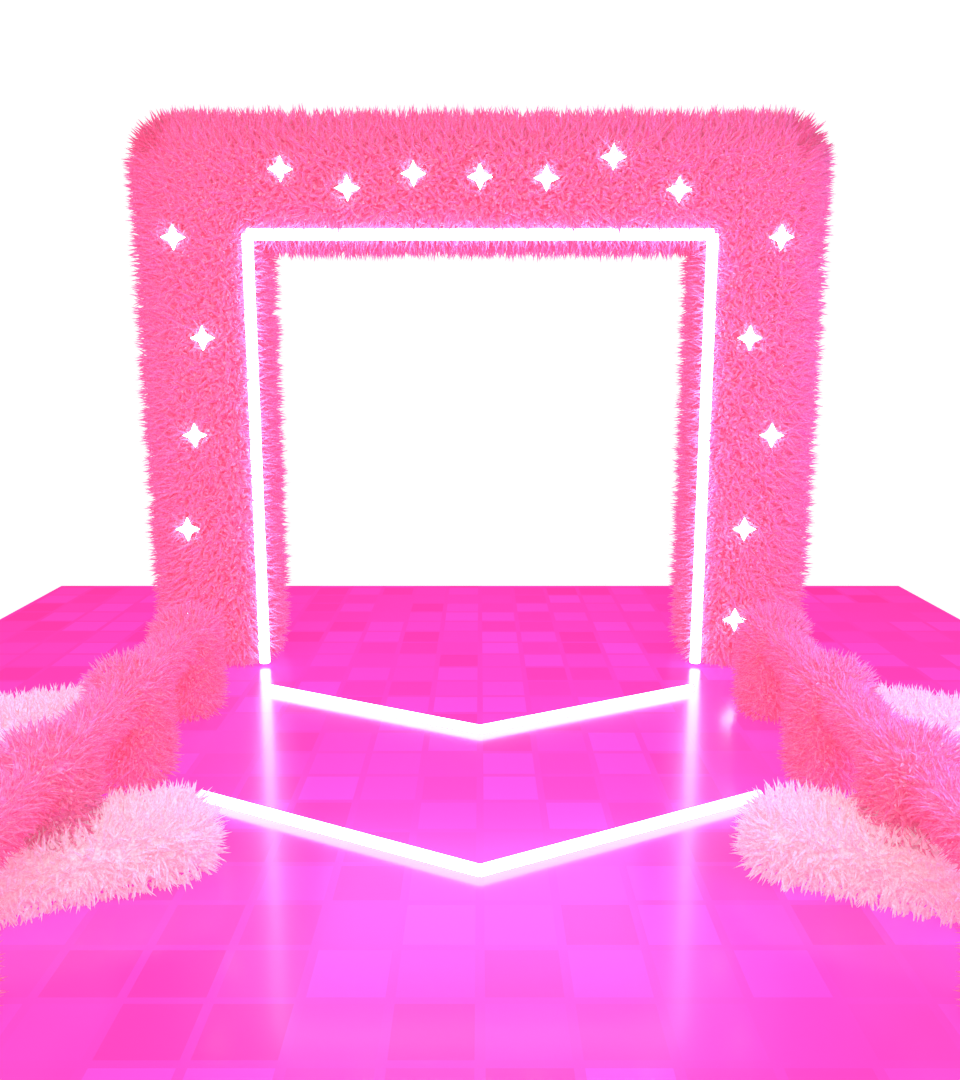
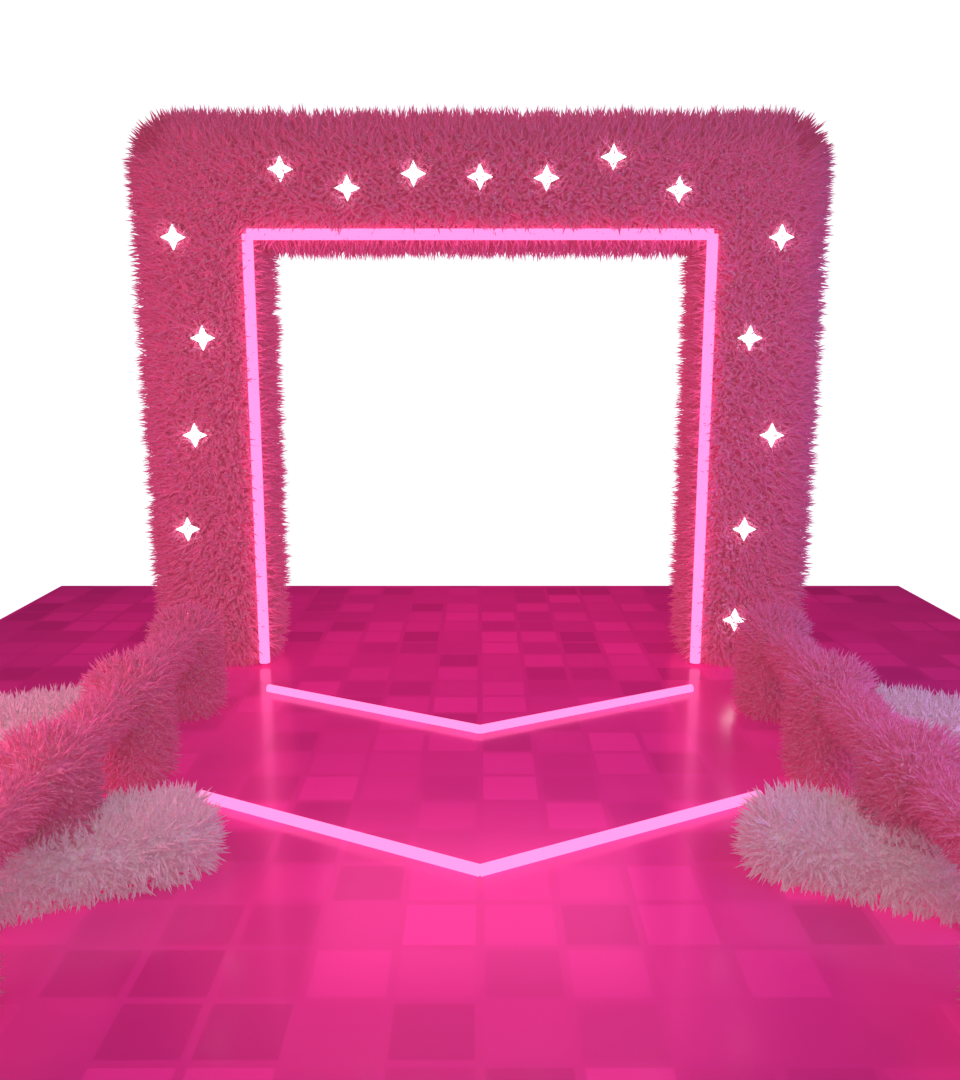
HUMAN TETRIS 8: kapak doygunlugu referansa esitlendi (pozlama -1,4, kapak gogu), onayli A/B

diff --git a/05-kapak/kapak-pvp-08.py b/05-kapak/kapak-pvp-08.py
@@ -37,7 +37,7 @@ FONT = os.path.join(KOK, "05-kapak", "fontlar", "TitanOne.ttf")
 yfont = lambda boy: ImageFont.truetype(FONT, boy)
 
 # ---------------------------------------------------------------- arka plan: videonun sahnesi
-im = Image.open(os.path.join(V, "gok.png")).convert("RGBA").resize((W, H), Image.LANCZOS)
+im = Image.open(os.path.join(V, "kapak-gok.png" if T8 and os.path.exists(os.path.join(V, "kapak-gok.png")) else "gok.png")).convert("RGBA").resize((W, H), Image.LANCZOS)
 KS = T8 and os.path.exists(os.path.join(V, "kapak-serit-p1.png"))   # 8. video: Blender'da kapaga ozel doygun seritler
 for i, ad in enumerate(("kapak-serit-p1.png", "kapak-serit-p2.png") if KS else ("serit-p1.png", "serit-p2.png")):
     s = Image.open(os.path.join(V, ad)).convert("RGBA").resize((W // 2, H), Image.LANCZOS)
